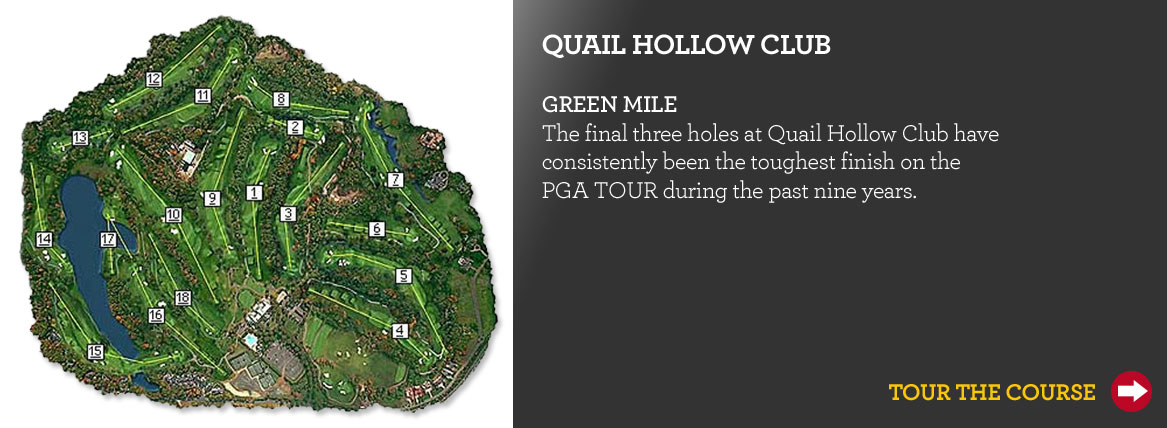
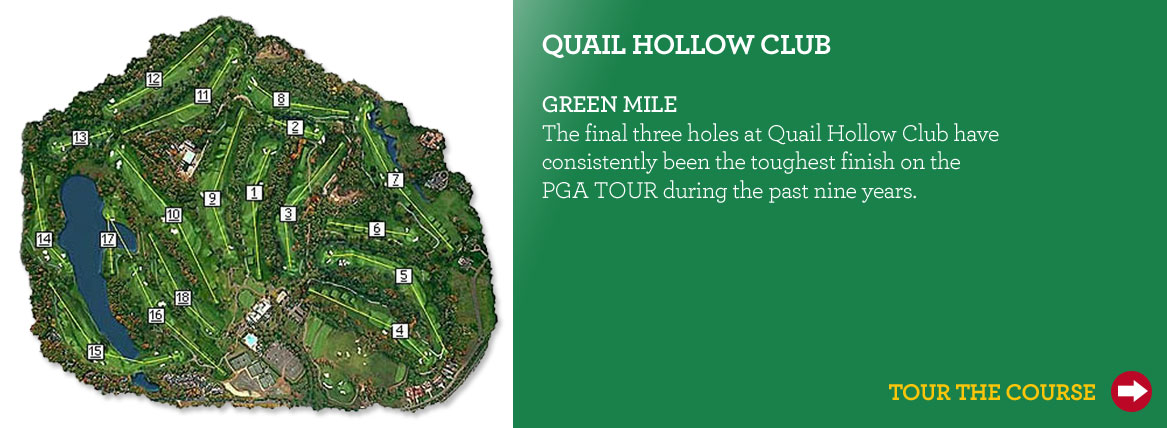
new overlays

diff --git a/index.html b/index.html
@@ -38,13 +38,13 @@ DRIVE2
             <!--
 HOLES1
             -->
-            <section id="X2a" data-F="2holes/_back.jpg" data-H="640" data-R="4" data-O="0" data-T="move">
+            <section id="X2a" data-F="2holes/_back1.jpg" data-H="640" data-R="4" data-O="0" data-T="move">
                 <br>
             </section>
             <!--
 HOLES2
             -->
-            <section id="X2b" data-F="2holes/_back.jpg" data-H="640" data-R="4" data-O="25" data-T="move">
+            <section id="X2b" data-F="2holes/_back3.jpg" data-H="640" data-R="4" data-O="25" data-T="move">
                 <br>
                 <img src="images/2holes/_intro.jpg" alt="Intro Text" class="tbox">
                 <br>
@@ -58,7 +58,7 @@ HOLES2
             <!--
 BEAUTY1
             -->
-            <section id="X3a" data-F="3beauty/_back.jpg" data-H="640" data-R="4" data-O="0" data-T="move">
+            <section id="X3a" data-F="3beauty/_back1.jpg" data-H="640" data-R="4" data-O="0" data-T="move">
                 <br>
                 <img src="images/3beauty/tbox.png" alt="Expbeaut" class="tbox">
                 <br>
@@ -66,7 +66,7 @@ BEAUTY1
             <!--
 BEAUTY2
             -->
-            <section id="X3b" data-F="3beauty/_back.jpg" data-H="640" data-R="4" data-O="25" data-T="move">
+            <section id="X3b" data-F="3beauty/_back3.jpg" data-H="640" data-R="4" data-O="25" data-T="move">
                 <br>
                 <div class="center" style="margin-top: 2em; width: 1000px;">
                     <img src="images/3beauty/_pic1.jpg" alt="Pic1">
